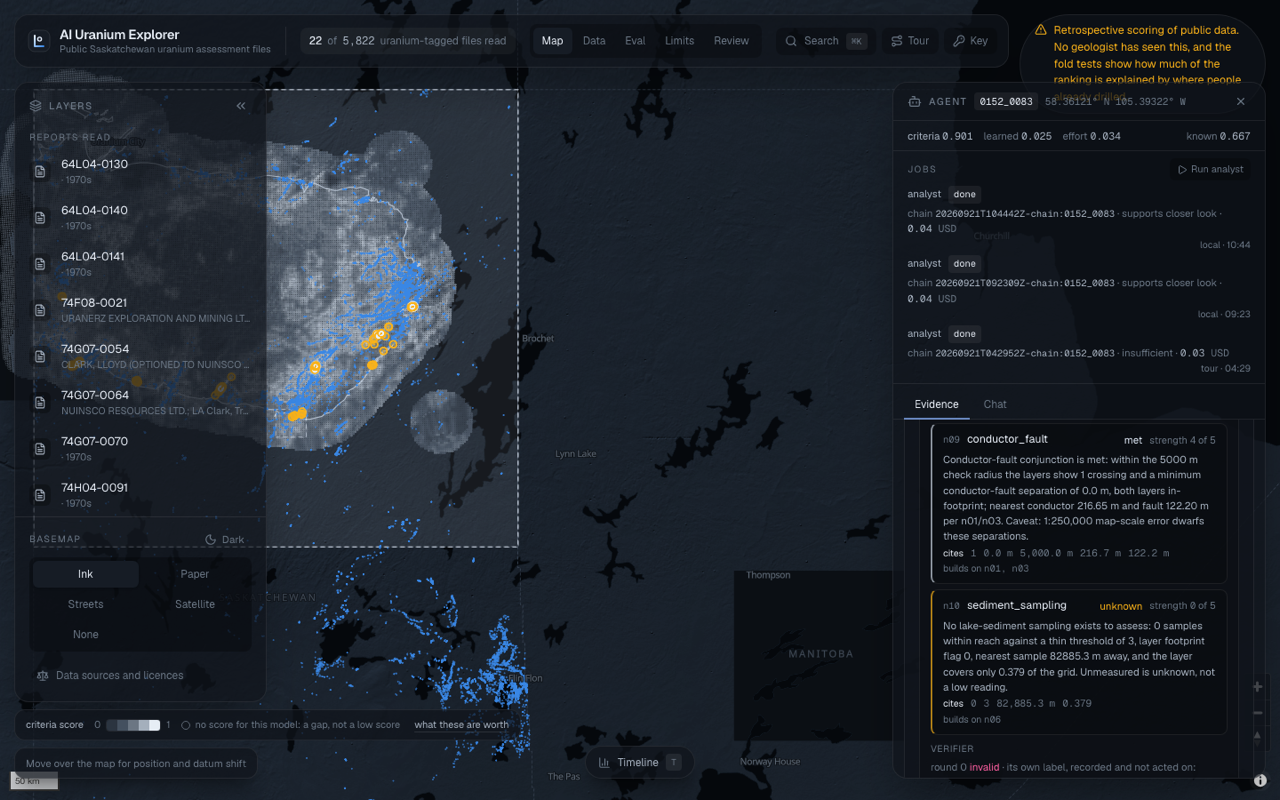
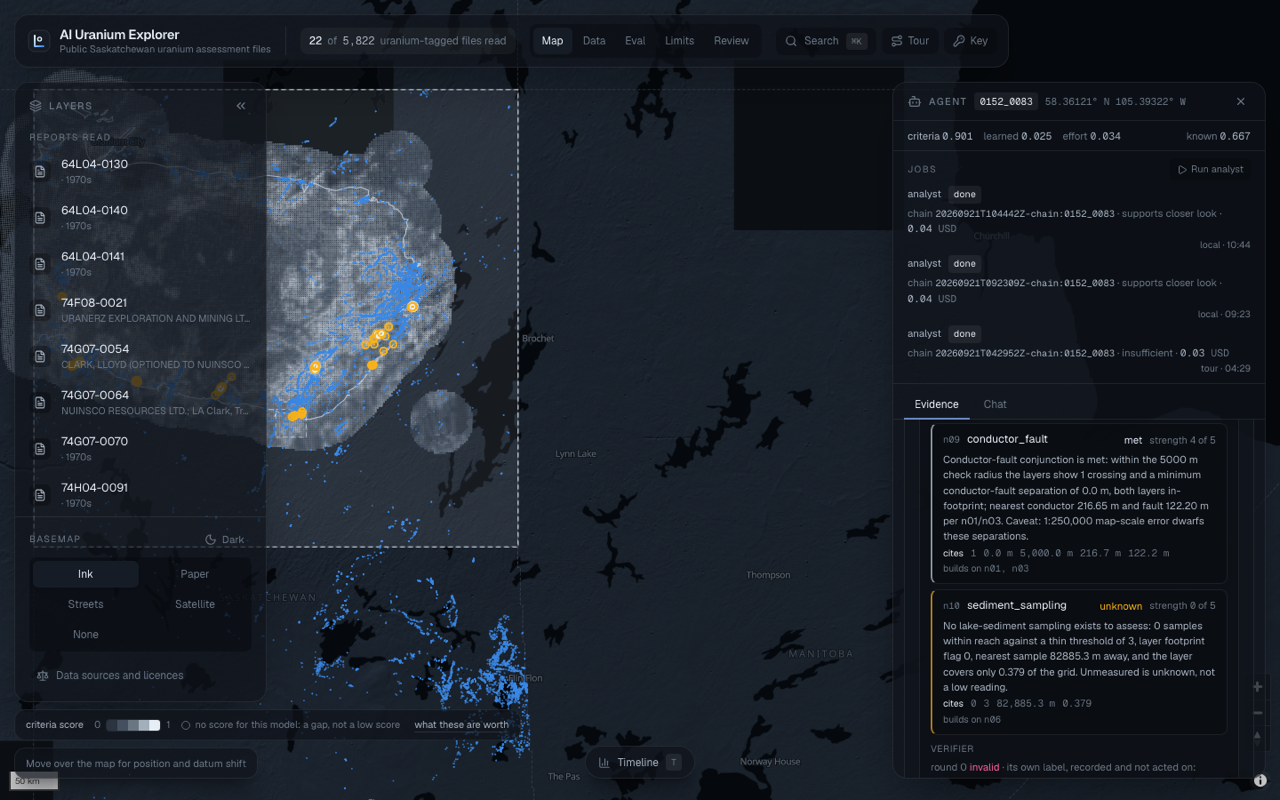
The reviewer's first fixes: migrations in the image, an honest quick start, a doctor that fails only on what is required
The Dockerfile copied the migrations directory's contents loose, so the container could not run its own
migrations; it now keeps the directory, and ue store migrate runs to head inside the container. The README
says no public seed pack exists yet and what runs without one, carries the one measured headline under
spatial folds, and puts "runs pending" first in the design section. ue doctor treats the Claude CLI as the
optional developer route it is and checks for the OpenRouter key by name. ruff is pinned and wired into
the checks. Both screenshots retaken without the banner. The GUIDE's container command says auto, and the
web build no longer names a script that is not in the tree.

diff --git a/pipeline/src/uranium_explorer/doctor.py b/pipeline/src/uranium_explorer/doctor.py
@@ -37,16 +37,26 @@ def run_checks() -> list[Check]:
     checks: list[Check] = []
     checks.append(Check("python", sys.version_info[:2] == (3, 13), platform.python_version()))
 
+    # the CLI is a developer's option (`--backend claude`); the default backend is API first, so its absence
+    # is noted, never a failure
     claude = shutil.which("claude")
     if claude:
         code, out = _run([claude, "--version"])
         version = out.split()[0] if out else "?"
         detail = f"{version} at {claude}"
         if version != EXPECTED_CLAUDE:
-            detail += f" (plan was verified against {EXPECTED_CLAUDE}; re-run the backend probe)"
-        checks.append(Check("claude CLI", code == 0, detail))
+            detail += f" (last verified with {EXPECTED_CLAUDE})"
+        checks.append(Check("claude CLI (optional)", code == 0, detail, required=False))
     else:
-        checks.append(Check("claude CLI", False, "not on PATH"))
+        checks.append(Check("claude CLI (optional)", False, "not on PATH; only --backend claude needs it", required=False))
+
+    # the key the default backend needs, checked by name only: the value is never read here
+    from .backends.openai_api import load_dotenv
+
+    load_dotenv()
+    has_key = bool(os.environ.get("OPENROUTER_API_KEY", "").strip())
+    checks.append(Check("OPENROUTER_API_KEY", has_key, "set" if has_key else "not set: the chat and the analyst jobs need it (.env, see .env.example)",
+                        required=False))
 
     for tool in ("pdftoppm", "pdftotext", "pdfimages", "pdfinfo"):
         path = shutil.which(tool)

diff --git a/pipeline/tests/test_doctor.py b/pipeline/tests/test_doctor.py
@@ -1,0 +1,25 @@
+"""The environment check tells a stranger what is missing without failing on what is optional."""
+
+from __future__ import annotations
+
+import shutil
+
+from uranium_explorer import doctor as D
+
+
+def test_without_the_cli_or_a_key_nothing_required_fails(monkeypatch) -> None:
+    monkeypatch.setattr(shutil, "which", lambda name: None if name == "claude" else f"/usr/bin/{name}")
+    monkeypatch.setattr("uranium_explorer.backends.openai_api.load_dotenv", lambda *a, **k: {})
+    monkeypatch.delenv("OPENROUTER_API_KEY", raising=False)
+    checks = {c.name: c for c in D.run_checks()}
+    cli, key = checks["claude CLI (optional)"], checks["OPENROUTER_API_KEY"]
+    assert cli.ok is False and cli.required is False, "the CLI is a developer's option, never a failure"
+    assert key.ok is False and key.required is False and ".env" in key.detail
+    assert not [c for c in checks.values() if c.required and not c.ok and c.name in ("claude CLI (optional)", "OPENROUTER_API_KEY")]
+
+
+def test_a_present_key_is_reported_by_name_only(monkeypatch) -> None:
+    monkeypatch.setattr("uranium_explorer.backends.openai_api.load_dotenv", lambda *a, **k: {})
+    monkeypatch.setenv("OPENROUTER_API_KEY", "sk-or-test-never-printed")
+    checks = {c.name: c for c in D.run_checks()}
+    assert checks["OPENROUTER_API_KEY"].ok is True and "sk-or" not in checks["OPENROUTER_API_KEY"].detail

diff --git a/README.md b/README.md
@@ -12,7 +12,8 @@ Status: prototype on public data. It gives no drilling advice. No geologist has 
 - Reads public GIS layers and scanned assessment reports into a store with five tiers: native, read, derived,
   agent, expert. Every read value keeps its page, box and quote.
 - Scores 2 km cells over the Athabasca Basin three ways: a criteria score, a learned model, and an effort model
-  built from where people already drilled. The gap between the last two is the headline.
+  built from where people already drilled. Measured under spatial folds on this grid, the effort model scores
+  PR-AUC 0.347 and the geology model 0.133; the run behind the number is on the Eval page.
 - Runs an analyst agent on a cell: plan, execute per criterion, gate every node, verify with repair rounds,
   decide, publish.
 - Answers questions through an interface agent. It routes each question to a fixed kind, refuses with a reason
@@ -27,7 +28,7 @@ Status: prototype on public data. It gives no drilling advice. No geologist has 
 
 ![What runs, and how it is judged](docs/figures/evaluation-flow.svg)
 
-Top row: what runs for one cell. Bottom row: what every answer is judged against.
+Benchmark runs are pending. Top row: what runs for one cell. Bottom row: what every answer will be judged against.
 
 - A frozen benchmark: stratified cells, labels masked, the cell's own files blind-listed, one hashed manifest.
 - Baselines on the same cells: random, criteria, learned, effort null. An agent that only matches the effort
@@ -37,12 +38,14 @@ Top row: what runs for one cell. Bottom row: what every answer is judged against
 - Per-stage metrics from traces: gate refusals, verifier catch rate, rounds to valid, decider agreement.
 - Ablations as arm files: single call against the staged loop, planner, verifier, rounds, model pairing.
 - A gate suite with no model in the loop, and interface tiers with gold computed by code.
-- No human rater yet. Benchmark runs are pending.
+- No human rater yet.
 
 ## Quick start
 
-Needs Docker, or Python 3.13 with uv and Node 22. The analytics store is not in git: place a seed pack at
-`pipeline/data/seed/latest`, or pull one from where it is published.
+Needs Docker, or Python 3.13 with uv and Node 22. The analytics store is not in git and no public seed pack
+is published yet, so a fresh clone runs the static site (the map, the scores, the Data, Eval and Limits
+pages, the tour) and both test suites; the evidence panel, the chat, the jobs and the analyst need a pack
+placed at `pipeline/data/seed/latest`.
 
     cd pipeline && uv sync && uv run ue store seed pull <url>
 

diff --git a/GUIDE.md b/GUIDE.md
@@ -61,7 +61,7 @@ The `Dockerfile` builds the web app with Node (`npm run build` with `VITE_SERVIC
 string, so the site calls the API on its own origin), installs the pipeline with `uv sync --frozen --no-dev`,
 copies `src`, `knowledge`, `configs`, the Alembic files and the built site, and starts with:
 
-    ue store seed ensure && ue prospect serve --host 0.0.0.0 --port 8787 --backend openai --web-dist /app/web/dist
+    ue store seed ensure && ue prospect serve --host 0.0.0.0 --port 8787 --backend auto --web-dist /app/web/dist
 
 `ue store seed ensure` is the container's first step: when `pipeline/data/ue.duckdb` is missing it unpacks
 the pack at `UE_SEED_DIR` (the compose file points it at `/app/pipeline/data/seed/latest`, the mounted
@@ -132,9 +132,8 @@ effort, `--host 0.0.0.0` opens it inside a container, `--web-dist web/dist` serv
 same process. Check `uv run ue openai models` (free) before choosing an OpenAI model and `uv run ue openai
 budget` or `uv run ue spend show` for what has been spent.
 
-The published site can also be built public-safe: `npm run build:public` builds with `VITE_PUBLIC_SAFE=1`
-(the post-build check it names, `scripts/check-public-safe.mjs`, is not in the tree yet, so the script stops
-after the build); `ue export-web --public-safe` and `ue export-reports --public-safe` omit
+The published site can also be built public-safe: `npm run build:public` builds with `VITE_PUBLIC_SAFE=1`,
+which hides the chat and serves no report text.
 non-redistributable data and page images.
 
 ### 2.3 Environment variables
@@ -1279,8 +1278,7 @@ renders; the tour). `npm run e2e` (`npx playwright test`) drives the map, the ev
 readiness page, the HUD and the ten-step tour in headless Chromium against `npm run dev`, with the digit walk
 at the end of each; the local service is optional by design, and the specs assert the chain when it is up and
 the offline notice when it is not. `npm run typecheck`, `npm run lint` (Biome) and `npm run validate:data` are
-the other gates; `npm run build:public` builds public-safe (its post-build check script is not in the tree
-yet, as section 2.2 notes).
+the other gates; `npm run build:public` builds public-safe.
 
 **How to add an arm.** Copy `pipeline/configs/arms/v1.toml` to a new name, change exactly one thing, state
 what question it answers in `notes`, and keep every switch stated (a missing one is refused) and `name` equal

diff --git a/CONTRIBUTING.md b/CONTRIBUTING.md
@@ -9,6 +9,7 @@ The analytics store is not in git. Unpack a seed pack first (see README.md, Quic
 
 ## Run the checks
 
+    cd pipeline && uv run ruff check src tests      # lint, seconds
     cd pipeline && uv run pytest -q                 # about five minutes; needs no model and no key
     cd web && npm run typecheck && npm run lint && npm test && npm run validate:data
     cd web && npm run e2e                           # about three minutes
